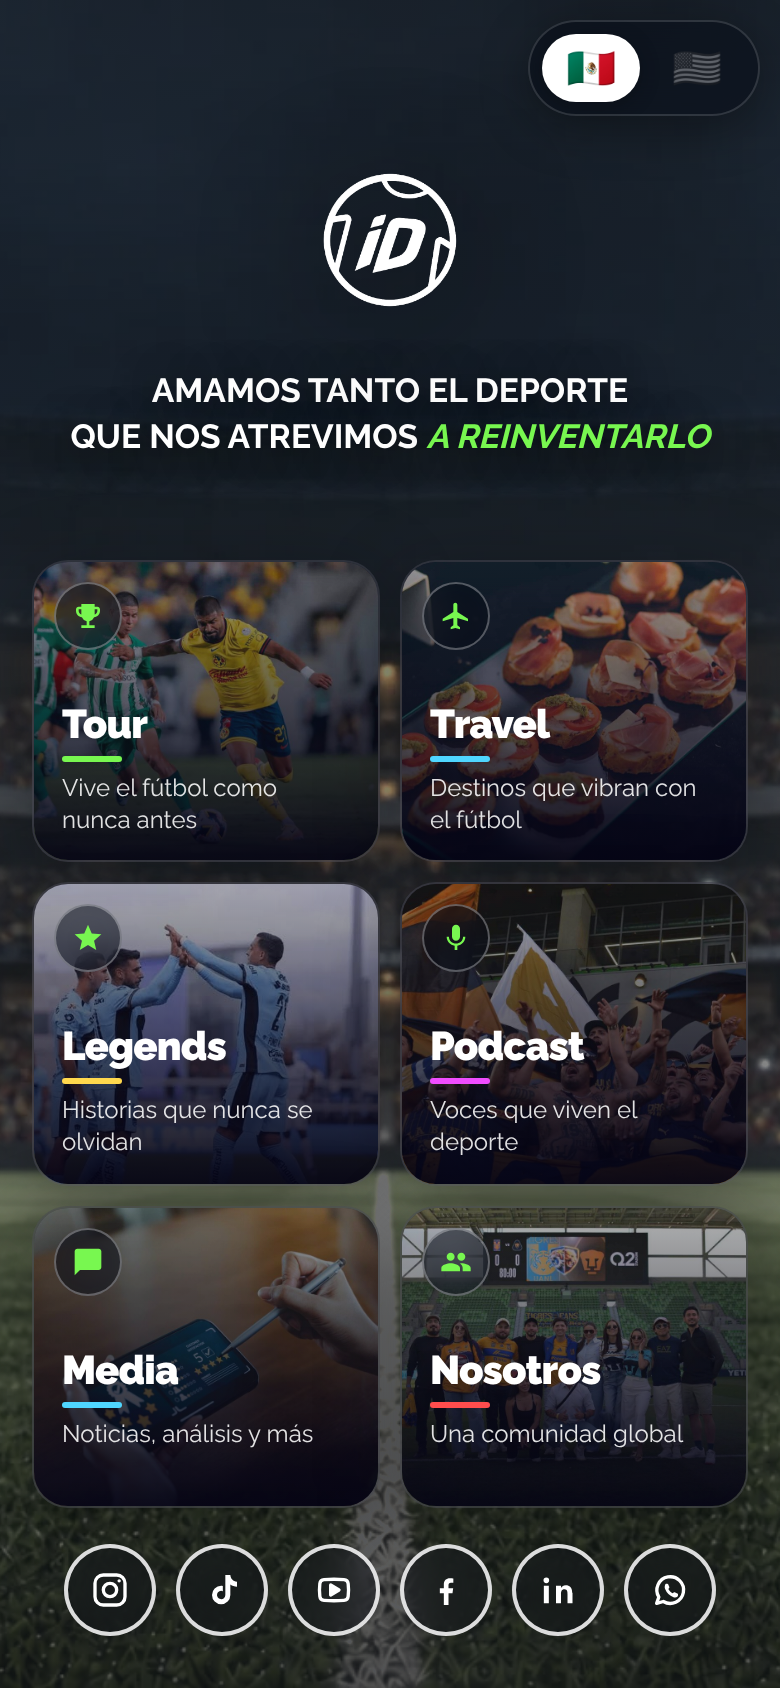
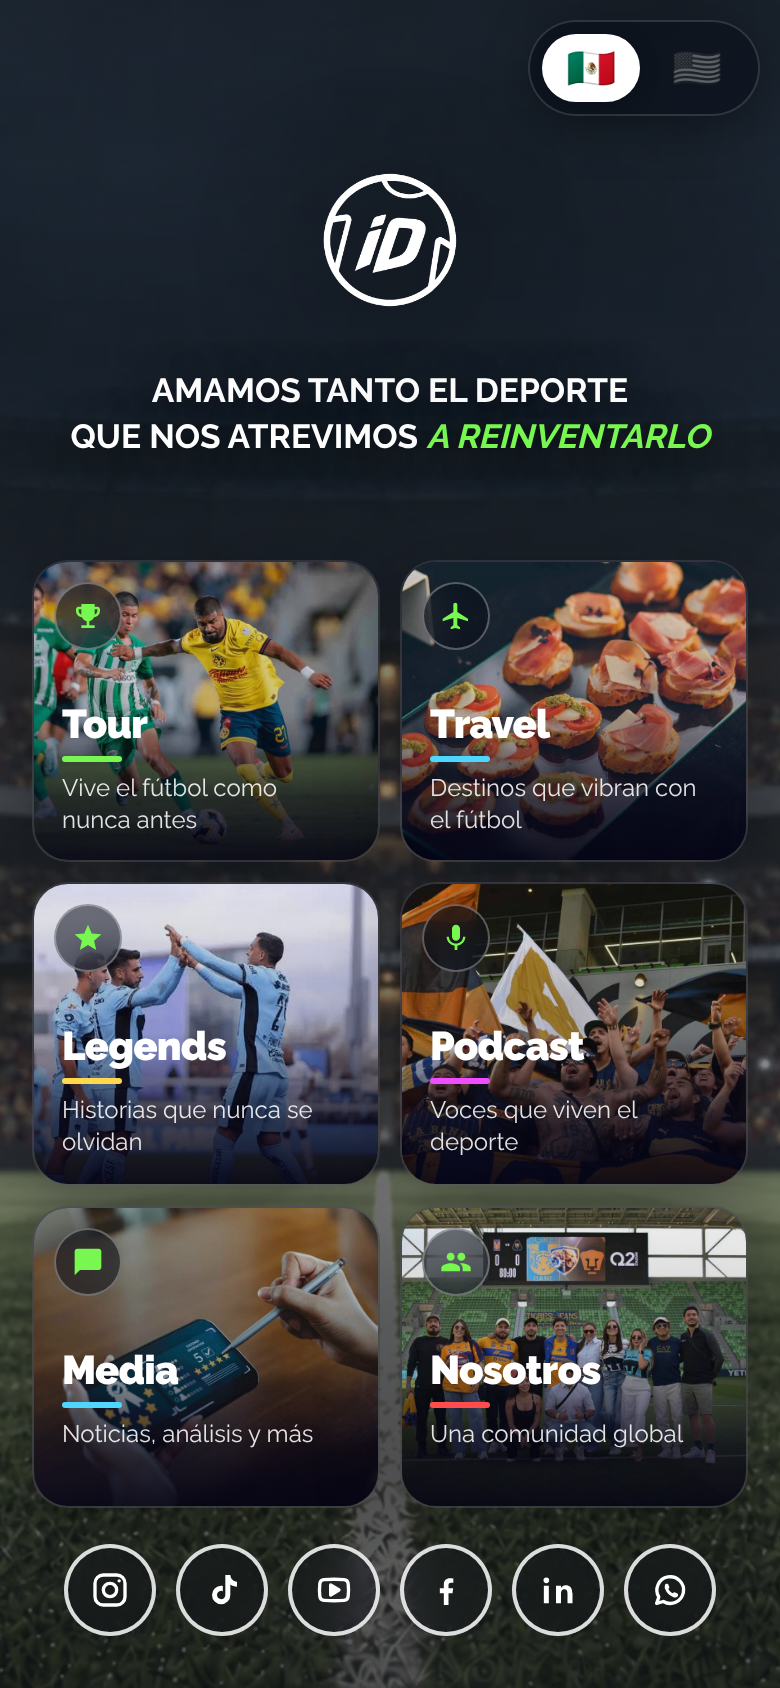
Inicio: las fotos de las cards a plena luz
Estaban al 50 % con un degradado que subía hasta arriba. Ahora van casi
opacas y sólo se oscurece el pie, donde va el texto.

Claude-Session: https://claude.ai/code/session_01TBS5J98YBvjYTTdc9XtUtE

diff --git a/assets/css/inicio.css b/assets/css/inicio.css
@@ -61,9 +61,11 @@ body .lang-btn:not(.active) .lang-flag { filter: grayscale(1) opacity(0.6); }
   transition: flex .55s cubic-bezier(.2,.8,.2,1), border-color .3s, box-shadow .3s;
 }
 @keyframes puertaEntra { to { opacity: 1; transform: none; } }
-.puerta::before { content: ''; position: absolute; inset: 0; z-index: -2; background: var(--foto) center / cover no-repeat; opacity: .5; transform: scale(1.06); transition: opacity .5s, transform .9s cubic-bezier(.2,.8,.2,1); }
+/* La foto va a plena luz, como en el mockup; sólo se oscurece el pie,
+   donde va el texto. */
+.puerta::before { content: ''; position: absolute; inset: 0; z-index: -2; background: var(--foto) center / cover no-repeat; opacity: .92; transform: scale(1.04); transition: opacity .5s, transform .9s cubic-bezier(.2,.8,.2,1); }
 .puerta--tour::before { background-position: center 12%; }
-.puerta::after { content: ''; position: absolute; inset: 0; z-index: -1; background: linear-gradient(to top, rgba(5,4,21,0.94) 0%, rgba(5,4,21,0.55) 45%, rgba(5,4,21,0.08) 100%); }
+.puerta::after { content: ''; position: absolute; inset: 0; z-index: -1; background: linear-gradient(to top, rgba(5,4,21,0.92) 0%, rgba(5,4,21,0.70) 22%, rgba(5,4,21,0.15) 50%, rgba(5,4,21,0) 100%); }
 .puerta:hover { flex: 2.4; border-color: rgba(var(--brand-blue-rgb), 0.7); box-shadow: 0 16px 50px rgba(var(--brand-blue-rgb), 0.25); }
 .puerta:hover::before { opacity: 1; transform: none; }
 .puerta__icono {
@@ -117,7 +119,7 @@ body .lang-btn:not(.active) .lang-flag { filter: grayscale(1) opacity(0.6); }
   .puertas { --alto: clamp(330px, calc(100vh - 370px), 560px); display: grid; grid-template-columns: 1fr 1fr; grid-template-rows: repeat(3, 1fr); gap: 10px; width: calc(100% - 32px); margin: calc(-1 * var(--alto) - 90px) auto 0; }
   .puerta { flex: none; border-radius: 18px; }
   .puerta:hover { flex: none; }
-  .puerta::before { opacity: .7; transform: none; }
+  .puerta::before { opacity: .92; transform: none; }
   .puerta__nombre { font-size: 1.25rem; }
   .puerta__linea { font-size: 12px; }
   .puerta__barra { width: 30px; height: 3px; margin: 5px 0 6px; }
